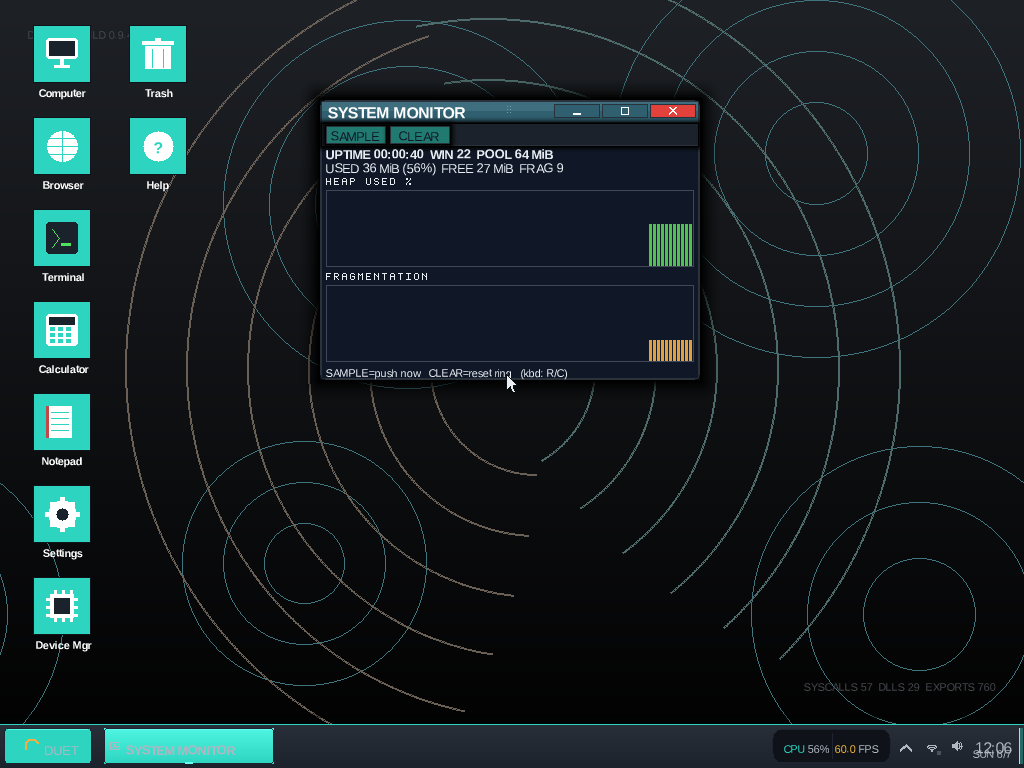
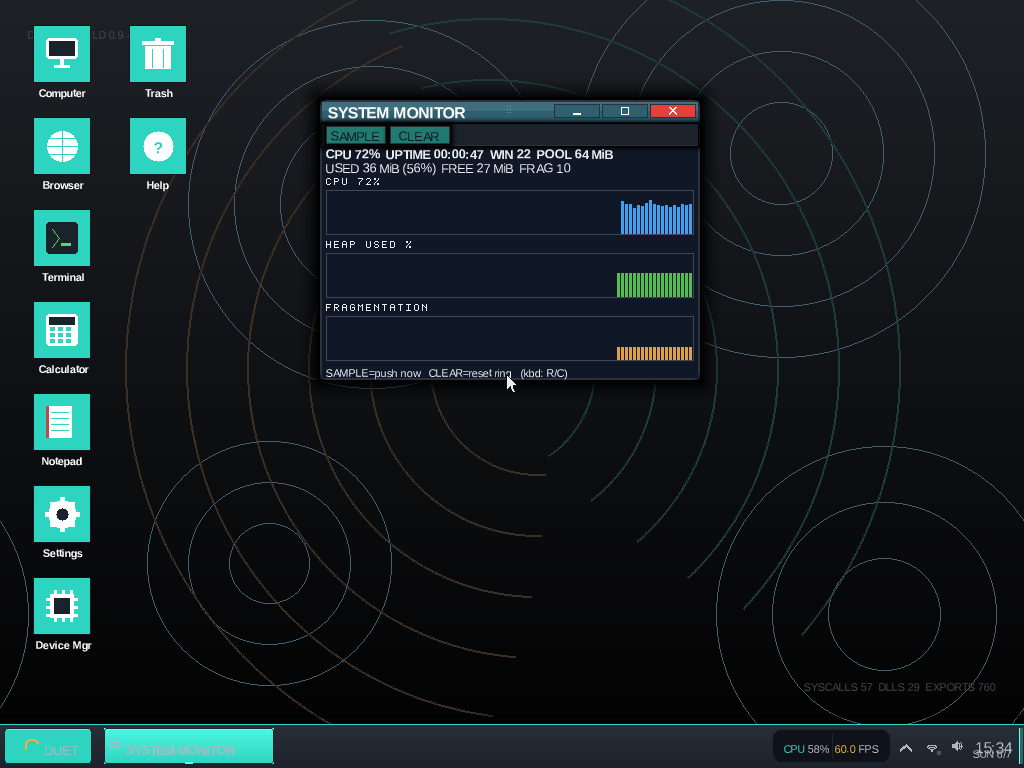
feat(sysmon): add live CPU% graph (extend to rubric bar, F-022)
System Monitor now surfaces the CPU-busy metric the kernel already
tracks (and the taskbar tray pill shows). Added a blue CPU sparkline
panel atop the heap/frag panels plus a numeric 'CPU NN%' readout in
the header and the panel caption.

Source: sched::SchedStatsRead() total_ticks/idle_ticks (same accounting
the tray pill reads), but differenced per-sample so the graph shows the
instantaneous load over each 1 Hz window rather than the since-boot
average. Matches the existing sparkline idiom -- no new charting code.

F-023 partial: the panels already scroll (64-sample rolling ring);
per-core breakdown stays open -- it needs a new public per-CPU sched
accessor and an app shouldn't reach into private per-CPU structures.

Verified: clean build (0 warnings), boot-log-analyze rc=0, 233
self-tests OK, [sysmon-selftest] PASS, screenshot shows the live CPU
graph + 'CPU 72%' readout.

diff --git a/kernel/apps/sysmon.cpp b/kernel/apps/sysmon.cpp
@@ -11,6 +11,7 @@
 #include "drivers/video/notify.h"
 #include "drivers/video/theme.h"
 #include "mm/kheap.h"
+#include "sched/sched.h"
 #include "time/tick.h"
 #include "util/string.h"
 
@@ -38,6 +39,7 @@ constexpr u32 kPanelGap = 6;
 // modulo kSysmonRingDepth.
 struct Sample
 {
+    u8 cpu_pct;        // 0..100, instantaneous CPU-busy over the last sample window
     u8 heap_used_pct;  // 0..100
     u8 frag_score;     // 0..100, clamped from free_chunk_count
     u16 alive_windows; // 0..kMaxWindows (16) but width-friendly
@@ -49,10 +51,17 @@ struct State
     Sample ring[kSysmonRingDepth];
     u32 head;  // next-write index
     u32 count; // populated entries (≤ kSysmonRingDepth)
+    // CPU-busy is published as lifetime tick counters; the
+    // instantaneous percentage for each sample is the delta between
+    // consecutive reads. These hold the previous read so CollectSample
+    // can difference against it. Seeded on first Init.
+    u64 prev_total_ticks;
+    u64 prev_idle_ticks;
+    bool cpu_seeded;
     bool initted;
 };
 
-constinit State g_state = {kWindowInvalid, {}, 0, 0, false};
+constinit State g_state = {kWindowInvalid, {}, 0, 0, 0, 0, false, false};
 
 // -------------------------------------------------------------------
 // Ring helpers — small + testable.
@@ -98,6 +107,29 @@ void RingClear()
 Sample CollectSample()
 {
     Sample s{};
+    // CPU-busy: difference the lifetime tick counters since the last
+    // sample so the bar shows the *instantaneous* load over this
+    // window rather than the since-boot average the tray pill shows.
+    // busy = total - idle, both deltas; pct = busy_delta / total_delta.
+    const auto sched_stats = ::duetos::sched::SchedStatsRead();
+    if (g_state.cpu_seeded)
+    {
+        const u64 total_delta = (sched_stats.total_ticks > g_state.prev_total_ticks)
+                                    ? (sched_stats.total_ticks - g_state.prev_total_ticks)
+                                    : 0;
+        const u64 idle_delta =
+            (sched_stats.idle_ticks > g_state.prev_idle_ticks) ? (sched_stats.idle_ticks - g_state.prev_idle_ticks) : 0;
+        if (total_delta > 0)
+        {
+            const u64 busy_delta = (total_delta > idle_delta) ? (total_delta - idle_delta) : 0;
+            const u64 pct = (busy_delta * 100ULL) / total_delta;
+            s.cpu_pct = static_cast<u8>(pct > 100 ? 100 : pct);
+        }
+    }
+    g_state.prev_total_ticks = sched_stats.total_ticks;
+    g_state.prev_idle_ticks = sched_stats.idle_ticks;
+    g_state.cpu_seeded = true;
+
     const auto h = mm::KernelHeapStatsRead();
     if (h.pool_bytes > 0)
     {
@@ -414,7 +446,9 @@ void RefreshSysmonHeader()
     const Sample latest = (g_state.count > 0) ? RingAt(0) : Sample{};
     const auto h = mm::KernelHeapStatsRead();
     u32 lp = 0;
-    AppendStr(g_header_text, &lp, sizeof(g_header_text), "UPTIME ");
+    AppendStr(g_header_text, &lp, sizeof(g_header_text), "CPU ");
+    AppendU64(g_header_text, &lp, sizeof(g_header_text), latest.cpu_pct);
+    AppendStr(g_header_text, &lp, sizeof(g_header_text), "%  UPTIME ");
     AppendUptime(g_header_text, &lp, sizeof(g_header_text), time::TickCount(), time::TickHz());
     AppendStr(g_header_text, &lp, sizeof(g_header_text), "  WIN ");
     AppendU64(g_header_text, &lp, sizeof(g_header_text), latest.alive_windows);
@@ -485,20 +519,40 @@ void PaintSysmonContent(u32 cx, u32 cy, u32 cw, u32 ch)
     const auto& th = ThemeCurrent();
     const u32 dim = th.banner_fg;
     const u32 axis_rgb = 0x00404858;
+    const u32 trace_cpu = 0x0040A0F0;  // blue — CPU-busy trace (the headline metric)
     const u32 trace_used = 0x0050C050; // green — heap-used trace
     const u32 trace_frag = 0x00E0A040; // amber — fragmentation trace
     FramebufferFillRect(cx, cy, cw, ch, kBg);
 
-    // Two stacked sparkline panels with a caption row above each.
+    // Three stacked sparkline panels with a caption row above each:
+    // CPU on top (the System-Monitor headline metric), then the two
+    // heap panels. The live "CPU NN%" numeric readout lives in the
+    // header label so the graph and a precise value sit together.
     const u32 panels_w = (cw > 2 * kPad) ? cw - 2 * kPad : cw;
-    const u32 panels_h_total = (ch > kPanelGap) ? ch : 0;
-    const u32 panel_h = (panels_h_total > kPanelGap) ? (panels_h_total - kPanelGap) / 2 : 0;
+    const u32 gaps_total = 2 * kPanelGap;
+    const u32 panel_h = (ch > gaps_total) ? (ch - gaps_total) / 3 : 0;
     if (panel_h > 8)
     {
-        const u32 panel_top = cy;
+        // Latest CPU% — also drawn beside the caption so the panel
+        // carries its own numeric readout, not just the header line.
+        const Sample latest = (g_state.count > 0) ? RingAt(0) : Sample{};
+        char cpu_cap[20];
+        u32 cp = 0;
+        AppendStr(cpu_cap, &cp, sizeof(cpu_cap), "CPU ");
+        AppendU64(cpu_cap, &cp, sizeof(cpu_cap), latest.cpu_pct);
+        AppendStr(cpu_cap, &cp, sizeof(cpu_cap), "%");
+        cpu_cap[(cp < sizeof(cpu_cap)) ? cp : sizeof(cpu_cap) - 1] = '\0';
+
+        const u32 cpu_top = cy;
+        FramebufferDrawString(cx + kPad, cpu_top, cpu_cap, dim, kBg);
+        PaintSparkline(cx + kPad, cpu_top + kRowH, panels_w, panel_h - kRowH, trace_cpu, axis_rgb,
+                       [](const Sample& s) -> u8 { return s.cpu_pct; });
+
+        const u32 panel_top = cpu_top + panel_h + kPanelGap;
         FramebufferDrawString(cx + kPad, panel_top, "HEAP USED %", dim, kBg);
         PaintSparkline(cx + kPad, panel_top + kRowH, panels_w, panel_h - kRowH, trace_used, axis_rgb,
                        [](const Sample& s) -> u8 { return s.heap_used_pct; });
+
         const u32 panel2_top = panel_top + panel_h + kPanelGap;
         FramebufferDrawString(cx + kPad, panel2_top, "FRAGMENTATION", dim, kBg);
         PaintSparkline(cx + kPad, panel2_top + kRowH, panels_w, panel_h - kRowH, trace_frag, axis_rgb,
@@ -599,14 +653,17 @@ void SysmonSelfTest()
 
     // Push three known samples and assert newest-first ordering.
     Sample a{};
+    a.cpu_pct = 11;
     a.heap_used_pct = 10;
     a.frag_score = 5;
     a.alive_windows = 1;
     Sample b{};
+    b.cpu_pct = 22;
     b.heap_used_pct = 20;
     b.frag_score = 15;
     b.alive_windows = 2;
     Sample c{};
+    c.cpu_pct = 33;
     c.heap_used_pct = 30;
     c.frag_score = 25;
     c.alive_windows = 3;
@@ -614,9 +671,9 @@ void SysmonSelfTest()
     RingPush(b);
     RingPush(c);
     ok = ok && (g_state.count == 3);
-    ok = ok && (RingAt(0).heap_used_pct == 30);
-    ok = ok && (RingAt(1).heap_used_pct == 20);
-    ok = ok && (RingAt(2).heap_used_pct == 10);
+    ok = ok && (RingAt(0).heap_used_pct == 30 && RingAt(0).cpu_pct == 33);
+    ok = ok && (RingAt(1).heap_used_pct == 20 && RingAt(1).cpu_pct == 22);
+    ok = ok && (RingAt(2).heap_used_pct == 10 && RingAt(2).cpu_pct == 11);
 
     // Wrap: push enough to evict the oldest.
     for (u32 i = 0; i < kSysmonRingDepth; ++i)

diff --git a/kernel/apps/sysmon.h b/kernel/apps/sysmon.h
@@ -13,10 +13,14 @@
  * the operator can watch the trace shift over the last ~64 samples.
  *
  * v0 surface:
- *   - Header line: uptime + alive windows + heap pool
- *   - Two stacked sparkline panels:
- *       1. Heap-used (% of pool, 0..100)
- *       2. Heap-fragmentation proxy (free_chunk_count / 32 clamped)
+ *   - Header line: live CPU-busy % + uptime + alive windows + heap pool
+ *   - Three stacked sparkline panels:
+ *       1. CPU-busy (% of ticks, 0..100; instantaneous per-sample delta
+ *          of the scheduler's total/idle tick accounting — the same
+ *          source the taskbar tray pill reads, differenced for the live
+ *          rate instead of the since-boot average)
+ *       2. Heap-used (% of pool, 0..100)
+ *       3. Heap-fragmentation proxy (free_chunk_count / 32 clamped)
  *   - Footer hint: F5 force-refresh, C clear ring
  *
  * Pass D chrome: AppToolbar with two AppButtons (SAMPLE, CLEAR)

diff --git a/docs/usability/findings.md b/docs/usability/findings.md
@@ -43,8 +43,8 @@ Every session below was guest-healthy (boot-log-analyze rc=0, 233 self-tests OK,
 | F-019 | files | Medium | no Back/Forward history nav; no modified-date column; subdir descent stubbed ("subdir descent not in v0") despite `[D] SUB` shown | files-open.png |
 | F-020 | trash | Medium | trash view (inside Files) has no Restore / Permanently-Delete / Empty-Trash actions exposed | trash-typed.png |
 | F-021 | hexview | Medium | file picker is NEXT/PREV blind-scan of `/` only — no path input / no Open dialog; always empty in CI (no files in /) | hexview-open.png |
-| F-022 | sysmon | High | "System Monitor" shows only HEAP-USED% + FRAGMENTATION bars — **no CPU graph** (its namesake feature); kernel tracks CPU% (in tray) but the app doesn't surface it | sysmon-open.png |
-| F-023 | sysmon | Medium | no per-core breakdown, no scrolling history graph (static bars only) | sysmon-open.png |
+| F-022 | sysmon | High | "System Monitor" shows only HEAP-USED% + FRAGMENTATION bars — **no CPU graph** (its namesake feature); kernel tracks CPU% (in tray) but the app doesn't surface it | sysmon-open.png | **FIXED.** Added a live CPU-busy sparkline panel (top of the stack, blue trace) plus a numeric "CPU NN%" readout in both the header line and the panel caption. Sourced from `::duetos::sched::SchedStatsRead()` (`kernel/sched/sched.cpp:4318` → `total_ticks`/`idle_ticks`) — the same accounting the taskbar tray pill reads — but **differenced per-sample** so the graph shows the *instantaneous* load over each 1 Hz window rather than the since-boot average the tray shows. Matches the existing heap/frag sparkline idiom (no new charting abstraction). Updates each refresh tick. | **extended** |
+| F-023 | sysmon | Medium | no per-core breakdown, no scrolling history graph (static bars only) | sysmon-open.png | **PARTIAL.** Scrolling history was already present (the panels are 64-sample rolling sparklines, not static bars — the CPU panel inherits this), and the new CPU panel scrolls live. **Per-core breakdown still open:** `SchedStatsRead()` only exposes system-wide aggregated `total_ticks`/`idle_ticks` (the per-CPU sum walk is internal to sched.cpp). Surfacing per-core CPU% cleanly needs a new public `SchedStatsReadCpu(cpu_id)` accessor — deferred to avoid reaching into private per-CPU sched structures from an app (subsystem-boundary). | **partial (per-core open)** |
 | F-024 | taskman | Medium | process list has PID/NAME/STATE/CPU%/TICKS but **no per-process memory** column (only system-total) | taskman-open.png |
 | F-025 | taskman | Medium | sort is S-key CPU% only; no clickable column-header sort / asc-desc indicator | taskman-open.png |
 | F-026 | devicemgr | Medium | no device status column, no bound-driver name, no human-readable device names (raw VID:DID only) | devicemgr-open.png |